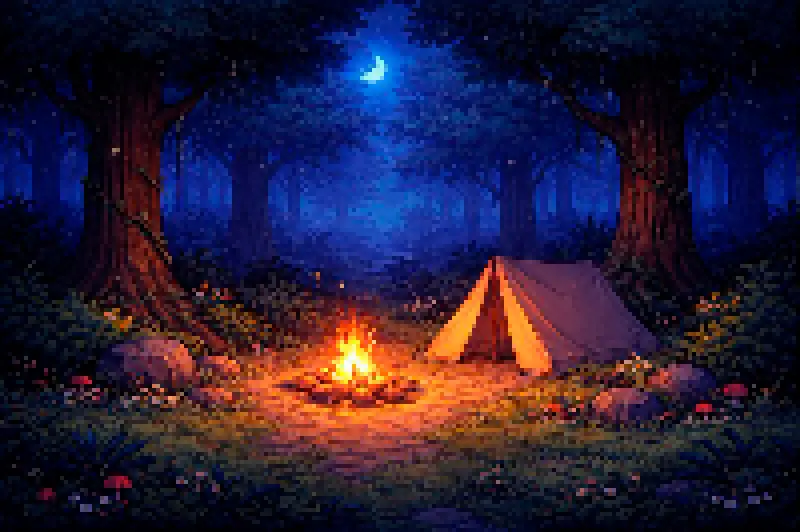
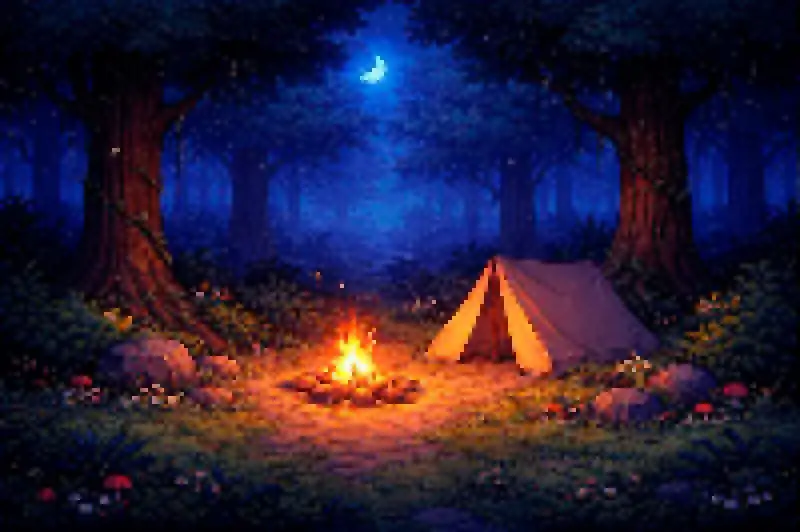
fix: expedition mobile size fixed and images resize

diff --git a/src/utils/expeditionImage.ts b/src/utils/expeditionImage.ts
@@ -2,6 +2,7 @@ import { BACKGROUNDS, type Biome } from "../data/biomesCatalog";
 import type { DayTime, Phase } from "../store/expedition/expedition.types";
 
 const BIOMES: Biome[] = ["forest", "riverside", "mountain"];
+type ImageSize = "full" | "small";
 
 export const getRandomBiome = (): Biome => {
   const index = Math.floor(Math.random() * BIOMES.length);
@@ -11,7 +12,8 @@ export const getRandomBiome = (): Biome => {
 export const getBackgroundImage = (
   biome: Biome | null,
   phase: Phase,
-  dayTime: DayTime
+  dayTime: DayTime,
+  size: ImageSize = "full"
 ) => {
   const phaseKey =
     phase === "journey"
@@ -19,6 +21,14 @@ export const getBackgroundImage = (
       : phase === "campfire" || phase === "finished"
       ? "campfire"
       : "idle";
-  if (!biome) return BACKGROUNDS["forest"][phaseKey][dayTime];
-  return BACKGROUNDS[biome][phaseKey][dayTime];
+
+  const biomeKey = biome ?? "forest";
+
+  const image = BACKGROUNDS[biomeKey][phaseKey][dayTime];
+
+  if (size === "small") {
+    return image.replace(".webp", "-small.webp");
+  }
+
+  return image;
 };

diff --git a/src/pages/Expedition/Expedition.styles.css b/src/pages/Expedition/Expedition.styles.css
@@ -15,12 +15,11 @@
 @media (max-width: 768px) {
   .expedition-wrapper {
     flex-direction: column;
-    height: calc(100vh - 62px);
+    height: calc(100dvh - 92px);
   }
   .expedition-page {
     display: flex;
     flex-direction: column;
     gap: 8px;
-    height: calc(100vh - 62px);
   }
 }

diff --git a/src/components/Expedition/ExpeditionResumeImage/ExpeditionResumeImage.component.tsx b/src/components/Expedition/ExpeditionResumeImage/ExpeditionResumeImage.component.tsx
@@ -6,7 +6,7 @@ export function ExpeditionResumeImage({
   dayTime,
   phase,
 }: ExpeditionResumeImageProps) {
-  const src = getBackgroundImage(biome, phase, dayTime);
+  const src = getBackgroundImage(biome, phase, dayTime, 'small');
 
   return (
     <div className="expedition-resume-bg">
